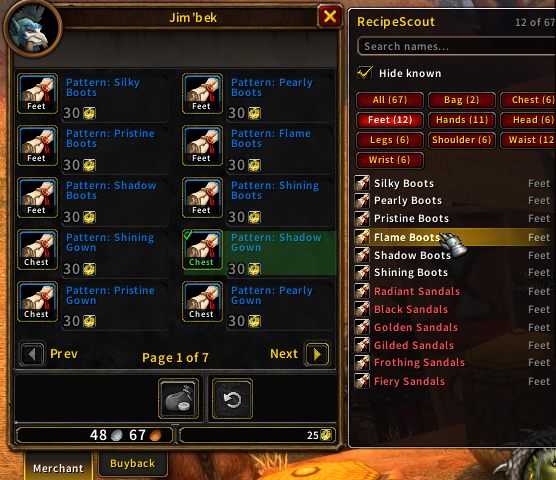
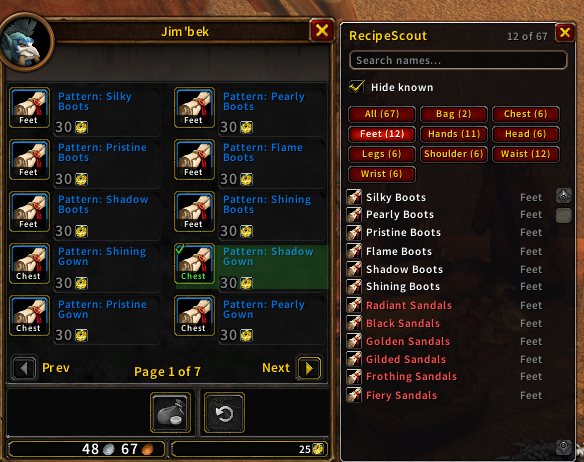
Screenshots for enchanting and leatherworking, filter buttons fit their text, enchant targets use slot names

diff --git a/PLAN.md b/PLAN.md
@@ -56,7 +56,7 @@ The hard part is finding which item a recipe makes, and its slot, without a big 
 
 - [x] **Alt recipes:** `Alts.lua` records each character's learned recipes (crafted item ID, recipe spell ID, recipe name) per profession when a profession window opens, plus profession skill at login; yellow check/text on the merchant and panel when an alt knows it; recipe tooltip lines "Known by", "Can learn", "Skill too low" (bags and AH too); `/rs alts`, `/rs forget <name>`; matches by crafted item, recipe spell (the tooltip's `spellID`) or name; "can learn" only after that alt's profession window was scanned, otherwise "not checked yet"; `tests/alts.lua` (3 characters, linked profession ignored, other realm, secrets), CI green (2026-11-23)
   Unverified on Forever: whether `C_TradeSkillUI.GetAllRecipeIDs`/`GetRecipeInfo` work there (classic `GetTradeSkillInfo` is the fallback), and whether the recipe tooltip's `spellID` equals the profession recipe ID (item and name matching cover it if not)
-- [ ] **In-game check of alts:** open each crafter's profession window once, then a recipe merchant; check `/rs alts` counts and the tooltip lines (maintainer)
+- [~] **In-game check of alts:** first try failed (2026-11-23): Jhon Dicc saw no yellow at Jim'bek. Saved file had Durga's skills (Tailoring 111, Enchanting 105 via `GetProfessions`) but no recipes (`profs = {}`), and realm saved as "" (`Durga-`). Added: every scan saves what each profession API answered to `RecipeScoutDB.lastScan` (`/rs debug`), classic Craft API path (Enchanting), `GetNormalizedRealmName` fallback and moving a `Name-` record once the realm is known. Next: Durga opens Tailoring and Enchanting, `/reload`, agent reads the saved file
 - [ ] **Appearance collected:** use the transmog API if the probe shows it answers
 - [ ] **Settings panel and addon compartment:** same pattern as DistanceToTarget
 
@@ -72,4 +72,7 @@ The hard part is finding which item a recipe makes, and its slot, without a big 
 - [ ] **Project approval:** wait for CurseForge moderators; files sync once approved
 - [x] **Logo and description:** `media/icon.svg` → `icon-512.png`, `icon-400.png`: option B "slot badge" (pattern icon with a FEET strip + green check, navy/gold like DistanceToTarget), picked from 5 candidates in `media/variants/` (2026-11-23), `media/curseforge-description.md` (2026-11-23)
 - [x] **Screenshots, first set:** `media/screenshots/panel.png` (merchant + panel, Hide known) and `feet-filter.png` (Feet filter), cropped from the maintainer's 2026-11-23 shots; both in the CurseForge description via raw GitHub URLs (2026-11-23)
-- [ ] **Screenshots, second set (maintainer):** enchanting vendor (now `Off Hand`), Feet filter without a tooltip covering the panel, an alt-known recipe (yellow check) with its "Known by" tooltip; agent crops them into `media/screenshots/`
+- [x] **Screenshots, second set:** `enchanting.png` (Beneris, Off Hand fix), `feet-filter.png` replaced with a clean Jim'bek shot, `leatherworking-feet.png` (Pawani, 15 of 81); all in the description (2026-11-23)
+- [x] **Filter buttons fit their text:** "Permanent (2)" and "2H Weapon (3)" were clipped; buttons now size to their text and wrap (2026-11-23)
+- [x] **Enchant targets use gear slot names:** Boots → Feet, Bracer → Wrist, Gloves → Hands, Cloak → Back, 2H Weapon → Two-Hand, Shield; "Weapon" stays (2026-11-23)
+- [ ] **Alts screenshot:** yellow check + "Known by" tooltip, once alts work

diff --git a/media/curseforge-description.md b/media/curseforge-description.md
@@ -6,9 +6,11 @@
 
 ## What you see
 
-- **A slot on every recipe icon:** `Feet`, `Chest`, `Waist`, `Two-Hand`, `Off Hand`, `Relic`… or the item type for things you don't wear (`Reagent Bag`). Enchanting formulas show what they enchant (`Weapon`, `Bracer`).
+- **A slot on every recipe icon:** `Feet`, `Chest`, `Waist`, `Two-Hand`, `Off Hand`, `Relic`… or the item type for things you don't wear (`Reagent Bag`). Enchanting formulas show what they enchant, using the same slot names (`Weapon`, `Wrist`, `Feet`), so the Feet filter finds boot enchants too.
 - **Known recipes:** green check on the icon and a green row.
 - **Can't learn yet** (skill too low, reputation): stays red, as the game already shows.
+
+![Enchanting formulas: Two-Hand, Off Hand, Relic and Weapon at a glance](https://raw.githubusercontent.com/jlblancolb/recipe-scout/main/media/screenshots/enchanting.png)
 
 ## The side panel
 
@@ -19,6 +21,8 @@ Opens next to any merchant that sells recipes:
 - every match from **all pages** in one list; hover for the tooltip, click to jump to its page
 
 ![Feet filter: the 12 boots and sandals from all 7 pages in one list; red ones need more skill](https://raw.githubusercontent.com/jlblancolb/recipe-scout/main/media/screenshots/feet-filter.png)
+
+![Leatherworking: 15 boots and sabatons out of 81 patterns over 9 pages](https://raw.githubusercontent.com/jlblancolb/recipe-scout/main/media/screenshots/leatherworking-feet.png)
 
 Close it with the X; the **Recipes** button on the merchant brings it back. `/rs` prints every recipe on the merchant in chat.
 
